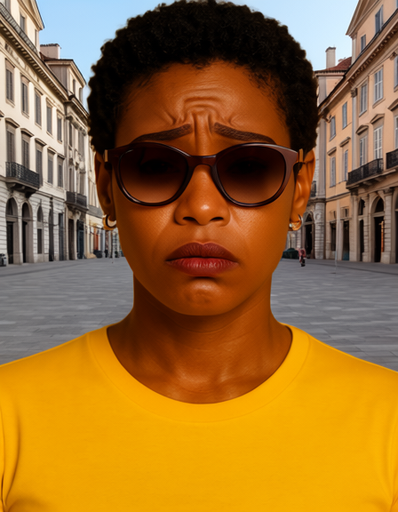
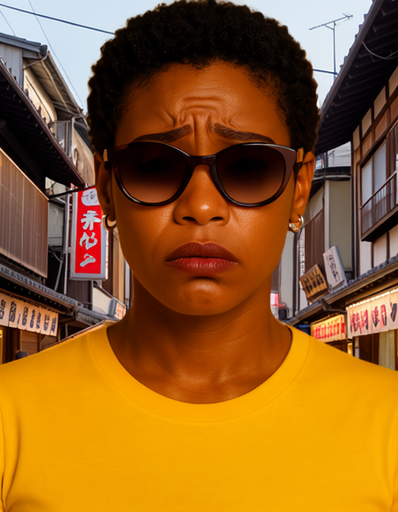
Use a sunglasses case whose glasses match the reference
The earlier sunglasses sample (city plaza) produced rounder, darker frames than
the reference pair's squarish tortoiseshell ones. Switch to the festival-street
case, where the reference and output glasses read as the same pair; all seven
combinations were checked tile by tile.

diff --git a/static/js/data.js b/static/js/data.js
@@ -160,7 +160,7 @@ window.SIA_SAMPLES = [
   {
     "id": "s6",
     "label": "Sunglasses portrait",
-    "title": "Sunglasses, a sad face, a city plaza",
+    "title": "Sunglasses, a sad face, a festival street",
     "subject": "people",
     "start": "111",
     "w": 398,
@@ -179,7 +179,7 @@ window.SIA_SAMPLES = [
       },
       {
         "id": "e3",
-        "label": "add an empty city plaza background",
+        "label": "add an empty Japanese festival street background",
         "type": "background"
       }
     ],

diff --git a/tools/build_images.py b/tools/build_images.py
@@ -97,10 +97,10 @@ SAMPLES = [
                 ("open the wings", "pose"),
                 ("add gold color", "appearance")]),
     dict(id="s6", src="all_is_correct_qwen/sunglasses", label="Sunglasses portrait", subject="people",
-         title="Sunglasses, a sad face, a city plaza", start="111",
+         title="Sunglasses, a sad face, a festival street", start="111",
          edits=[("add sunglasses", "object"),
                 ("sad expression", "expression"),
-                ("add an empty city plaza background", "background")]),
+                ("add an empty Japanese festival street background", "background")]),
     dict(id="s13", src="all_is_correct_qwen/lantern", label="Lantern", subject="objects",
          title="A bench, a red light, oil paint", start="111",
          edits=[("add a park metal bench", "object"),
